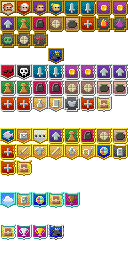
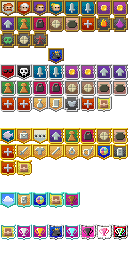
1.4: implemented badges for new challenges

Changed region(s): [[0.5, 0.875, 1.0, 0.9375]]

diff --git a/core/src/main/java/com/zrp200/rkpd2/Badges.java b/core/src/main/java/com/zrp200/rkpd2/Badges.java
@@ -160,7 +160,12 @@ public class Badges {
 		CHAMPION_2                  ( 113 ),
 		CHAMPION_3                  ( 114 ),
 
-		DEFEATED_RK					(115);
+		//neutronium
+		DEFEATED_RK					(115),
+		CHAMPION_4                  (116),
+		CHAMPION_5                  (117),
+		CHAMPION_6                  (118),
+		CHAMPION_7                  (119);
 
 		public boolean meta;
 
@@ -849,6 +854,34 @@ public class Badges {
 			}
 			badge = Badge.CHAMPION_3;
 		}
+		if (challenges >= 9){
+			if (!global.contains(badge)){
+				global.add(badge);
+				saveNeeded = true;
+			}
+			badge = Badge.CHAMPION_4;
+		}
+		if (challenges >= 12){
+			if (!global.contains(badge)){
+				global.add(badge);
+				saveNeeded = true;
+			}
+			badge = Badge.CHAMPION_5;
+		}
+		if (challenges >= 15){
+			if (!global.contains(badge)){
+				global.add(badge);
+				saveNeeded = true;
+			}
+			badge = Badge.CHAMPION_6;
+		}
+		if (challenges >= 18){
+			if (!global.contains(badge)){
+				global.add(badge);
+				saveNeeded = true;
+			}
+			badge = Badge.CHAMPION_7;
+		}
 		local.add(badge);
 		displayBadge( badge );
 		for (int ch : Challenges.availableChallenges().values().toArray()){
@@ -873,6 +906,10 @@ public class Badges {
 						b = Badge.CHAMPED_DARKNESS; break;
 					case Challenges.NO_SCROLLS:
 						b = Badge.CHAMPED_NO_SCROLLS; break;
+				}
+				if (!global.contains(badge)){
+					global.add(badge);
+					saveNeeded = true;
 				}
 				local.add(b);
 			}
@@ -955,7 +992,7 @@ public class Badges {
 			{Badge.POTIONS_COOKED_1, Badge.POTIONS_COOKED_2, Badge.POTIONS_COOKED_3, Badge.POTIONS_COOKED_4 },
 			{Badge.BOSS_SLAIN_1, Badge.BOSS_SLAIN_2, Badge.BOSS_SLAIN_3, Badge.BOSS_SLAIN_4},
 			{Badge.GAMES_PLAYED_1, Badge.GAMES_PLAYED_2, Badge.GAMES_PLAYED_3, Badge.GAMES_PLAYED_4},
-			{Badge.CHAMPION_1, Badge.CHAMPION_2, Badge.CHAMPION_3}
+			{Badge.CHAMPION_1, Badge.CHAMPION_2, Badge.CHAMPION_3, Badge.CHAMPION_4, Badge.CHAMPION_5, Badge.CHAMPION_6, Badge.CHAMPION_7}
 	};
 
 	private static final Badge[][] metaBadgeReplacements = new Badge[][]{
@@ -986,7 +1023,7 @@ public class Badges {
 		leaveBest( badges, Badge.ITEM_LEVEL_1, Badge.ITEM_LEVEL_2, Badge.ITEM_LEVEL_3, Badge.ITEM_LEVEL_4 );
 		leaveBest( badges, Badge.POTIONS_COOKED_1, Badge.POTIONS_COOKED_2, Badge.POTIONS_COOKED_3, Badge.POTIONS_COOKED_4 );
 		leaveBest( badges, Badge.GAMES_PLAYED_1, Badge.GAMES_PLAYED_2, Badge.GAMES_PLAYED_3, Badge.GAMES_PLAYED_4 );
-		leaveBest( badges, Badge.CHAMPION_1, Badge.CHAMPION_2, Badge.CHAMPION_3 );
+		leaveBest( badges, Badge.CHAMPION_1, Badge.CHAMPION_2, Badge.CHAMPION_3, Badge.CHAMPION_4, Badge.CHAMPION_5, Badge.CHAMPION_6, Badge.CHAMPION_7);
 
 		for (Badge[] tierReplace : tierBadgeReplacements){
 			leaveBest( badges, tierReplace );
